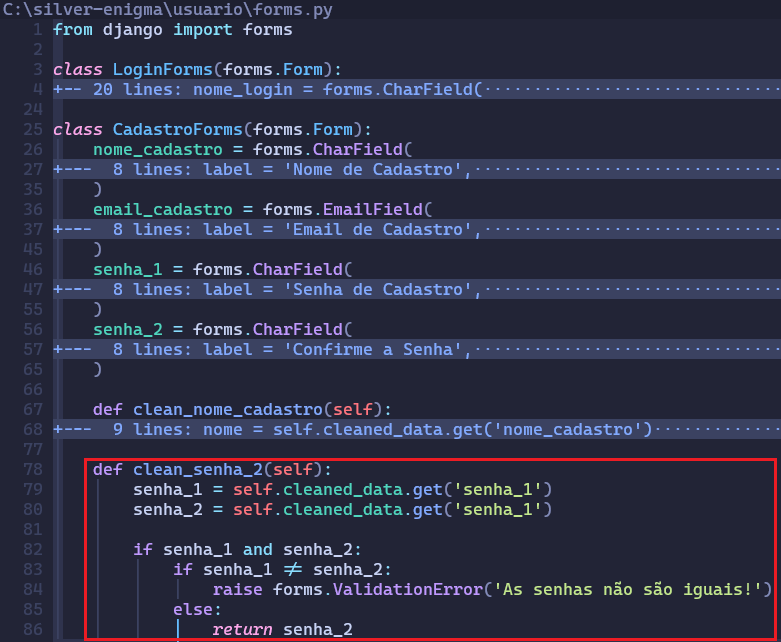
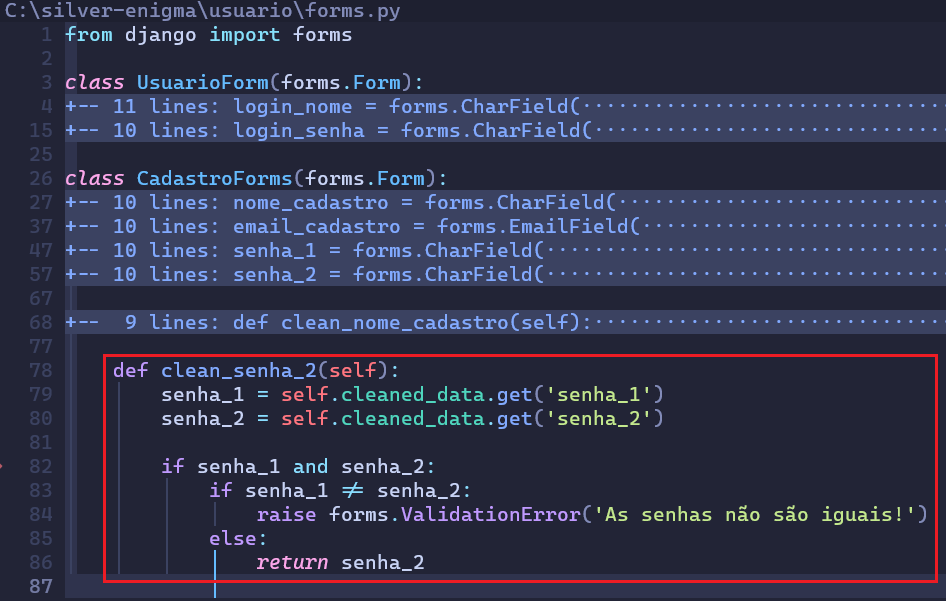
aula 05

diff --git a/4.django/aula-05.md b/4.django/aula-05.md
@@ -1,0 +1,108 @@
+<h1 style="text-align:center;">Aula 05</h1>
+
+## 1. Criando a Base ##
+Agora que o usuário está conseguindo cadastrar e entrar na plataforma, temos que criar as formas dele ser capaz de adicionar, editar e apagar dados na galeria.
+
+Para isso, temos que seguir os seguintes passos:
+- criar os arquivos HTMLs;
+<p align="center">
+    <img src="imagens/aula-05/imagem-01.png">
+</p>
+
+- carregá-los nas suas respectivas funções no arquivo **/galeria/views.py**;
+<p align="center">
+    <img src="imagens/aula-05/imagem-02.png">
+</p>
+
+- adicionar a rota delas no arquivo **/galeria/urls.py**;
+<p align="center">
+    <img src="imagens/aula-05/imagem-03.png">
+</p>
+
+- adicionar no menu de navegação;
+<p align="center">
+    <img src="imagens/aula-05/imagem-04.png">
+</p>
+
+## 2. Adicionando um Registro ##
+Agora que a base de tudo está criada, falta criar o arquivo **/galeria/forms.py** que vai receber esses dados do usuário.
+
+### 2.1. Arquivo forms.py ###
+Para isso, tem que se ter o cuidado para que os campos dos formuários sejam iguais. Mas isso pode ser muito trabalhoso, já que se for altar um formulário, tem que alterar os demais.
+
+Felizmente, o Django possui uma forma muito útil de lidar com esse tipo de problema. Para isso, temos que informar qual será a referência de modelo para o novo modelo.
+
+Veja como ficará o arquivo **/galeria/forms.py**:
+<p align="center">
+    <img src="imagens/aula-05/imagem-05.png">
+</p>
+
+A **class Meta** usada dentro da clsse **ImagemForm** está referenciando os meta dados da própria classe (a **ImagemForm**). Dentro dela, informamos a qual modelo ela está se referindo, que será **Imagem**. Ainda dentro da classe **Meta**, há o campo **exclude**, ele indica quais campos não serão de controle do usuário, afinal, assim um administrador pode escolher se uma imagem pode ou não ser publicada.
+
+O campo **widget** está sendo usado para definir como esses campos irão aparecer no formulário.
+
+O campo **labels** está sendo usado para criar textos alternativos para alguns campos. Assim, eles poderão aparecer acentuados para o usuário na página HTML.
+
+Se reparar na classe herdada, verá que ela difere da usada anteriormente no arquivo **/usuario/forms.py**:
+<p align="center">
+    <img src="imagens/aula-05/imagem-06.png">
+</p>
+
+Isso porque antes o formuário estava sendo criado sem um modelo de referência. Agora, ele está sendo criado a partir de um modelo já criado.
+
+### 2.2. Arquivo views.py ###
+Ainda tem que ser feita a lógica no arquivo **/galeria/views.py** para que esses dados recebidos do formulário sejam salvos no banco de dados. Ela não vai ser muito diferente do que já foi feito no arquivo **/usuario/views.py** ao se cadastrar um usuário.
+
+Veja como ficará:
+<p align="center">
+    <img src="imagens/aula-05/imagem-07.png">
+</p>
+
+A maior diferença será junto ao comando **request.POST**, que também precisa receber um **request.FILES** para que possa receber os arquivos corretamente do formulário. Assim como o próprio formuário, que agora também precisa de um novo parâmetro para recber imagem.
+<p align="center">
+    <img src="imagens/aula-05/imagem-08.png">
+</p>
+
+
+## 2. Editando um Registro ##
+Uma vez que as imagens estão sendo salvas, está na hora de poder editar os dados dela.
+
+A primeira coisa a se fazer, é criar os botões junto da imagem exibida. Esse botão está na página da própria imagem, e não da lista delas. Por isso eles não foram adicionados ao menu.
+
+Um formulário de alteração tem como característica já vir previamente preenchido com as informações daquele item. Então, o que tem que ser feito é carregar as informações daquele objeto para então poder alterar e salvar novamente. A referência do objeto será captada através da url da própria página.
+
+Então, para começar, veja como ficarão os botões e as urls:
+<p align="center">
+    <img src="imagens/aula-05/imagem-09.png">
+</p>
+
+A maior diferença está na url, que está sendo enviado junto o id da imagem, para assim a página destino ser capaz de buscar o registro por aquele valor.
+
+<p align="center">
+    <img src="imagens/aula-05/imagem-10.png">
+</p>
+
+A lógica de apagar uma imagem é similar a que foi realizada até o momento. Veja como ficará:
+<p align="center">
+    <img src="imagens/aula-05/imagem-11.png">
+</p>
+
+A maior diferença é que ao ser criado um formulário a partir da classe **ImagemForm**, será feito passando como referência a imagem buscada no banco de dados usando o parâmetro **instance**. Depois, na hora de realizar um render da página web, também tem que ser passado com o dicionário o id da imagem, para que assim, ao se enviar o formuário alterado, tenha-se a referência da imagem.
+
+Veja o HTML:
+<p align="center">
+    <img src="imagens/aula-05/imagem-12.png">
+</p>
+
+
+## 3. Apagando um Registro ##
+Para apagar uma imagem, o processo para pegar a referência da imagem é relativamente parecido com a página de alteração e um processo bem mais simples.
+
+Veja como ficará a função:
+<p align="center">
+    <img src="imagens/aula-05/imagem-13.png">
+</p>
+
+A única particularidade é a chamada do método **delete()** pelo objeto, apagando em definitivo o registro.
+PS.: as verificações de login e objeto não encontrado só foram fechados, para deixar a imagem menor, mas eles ainda precisam estar lá.
+
